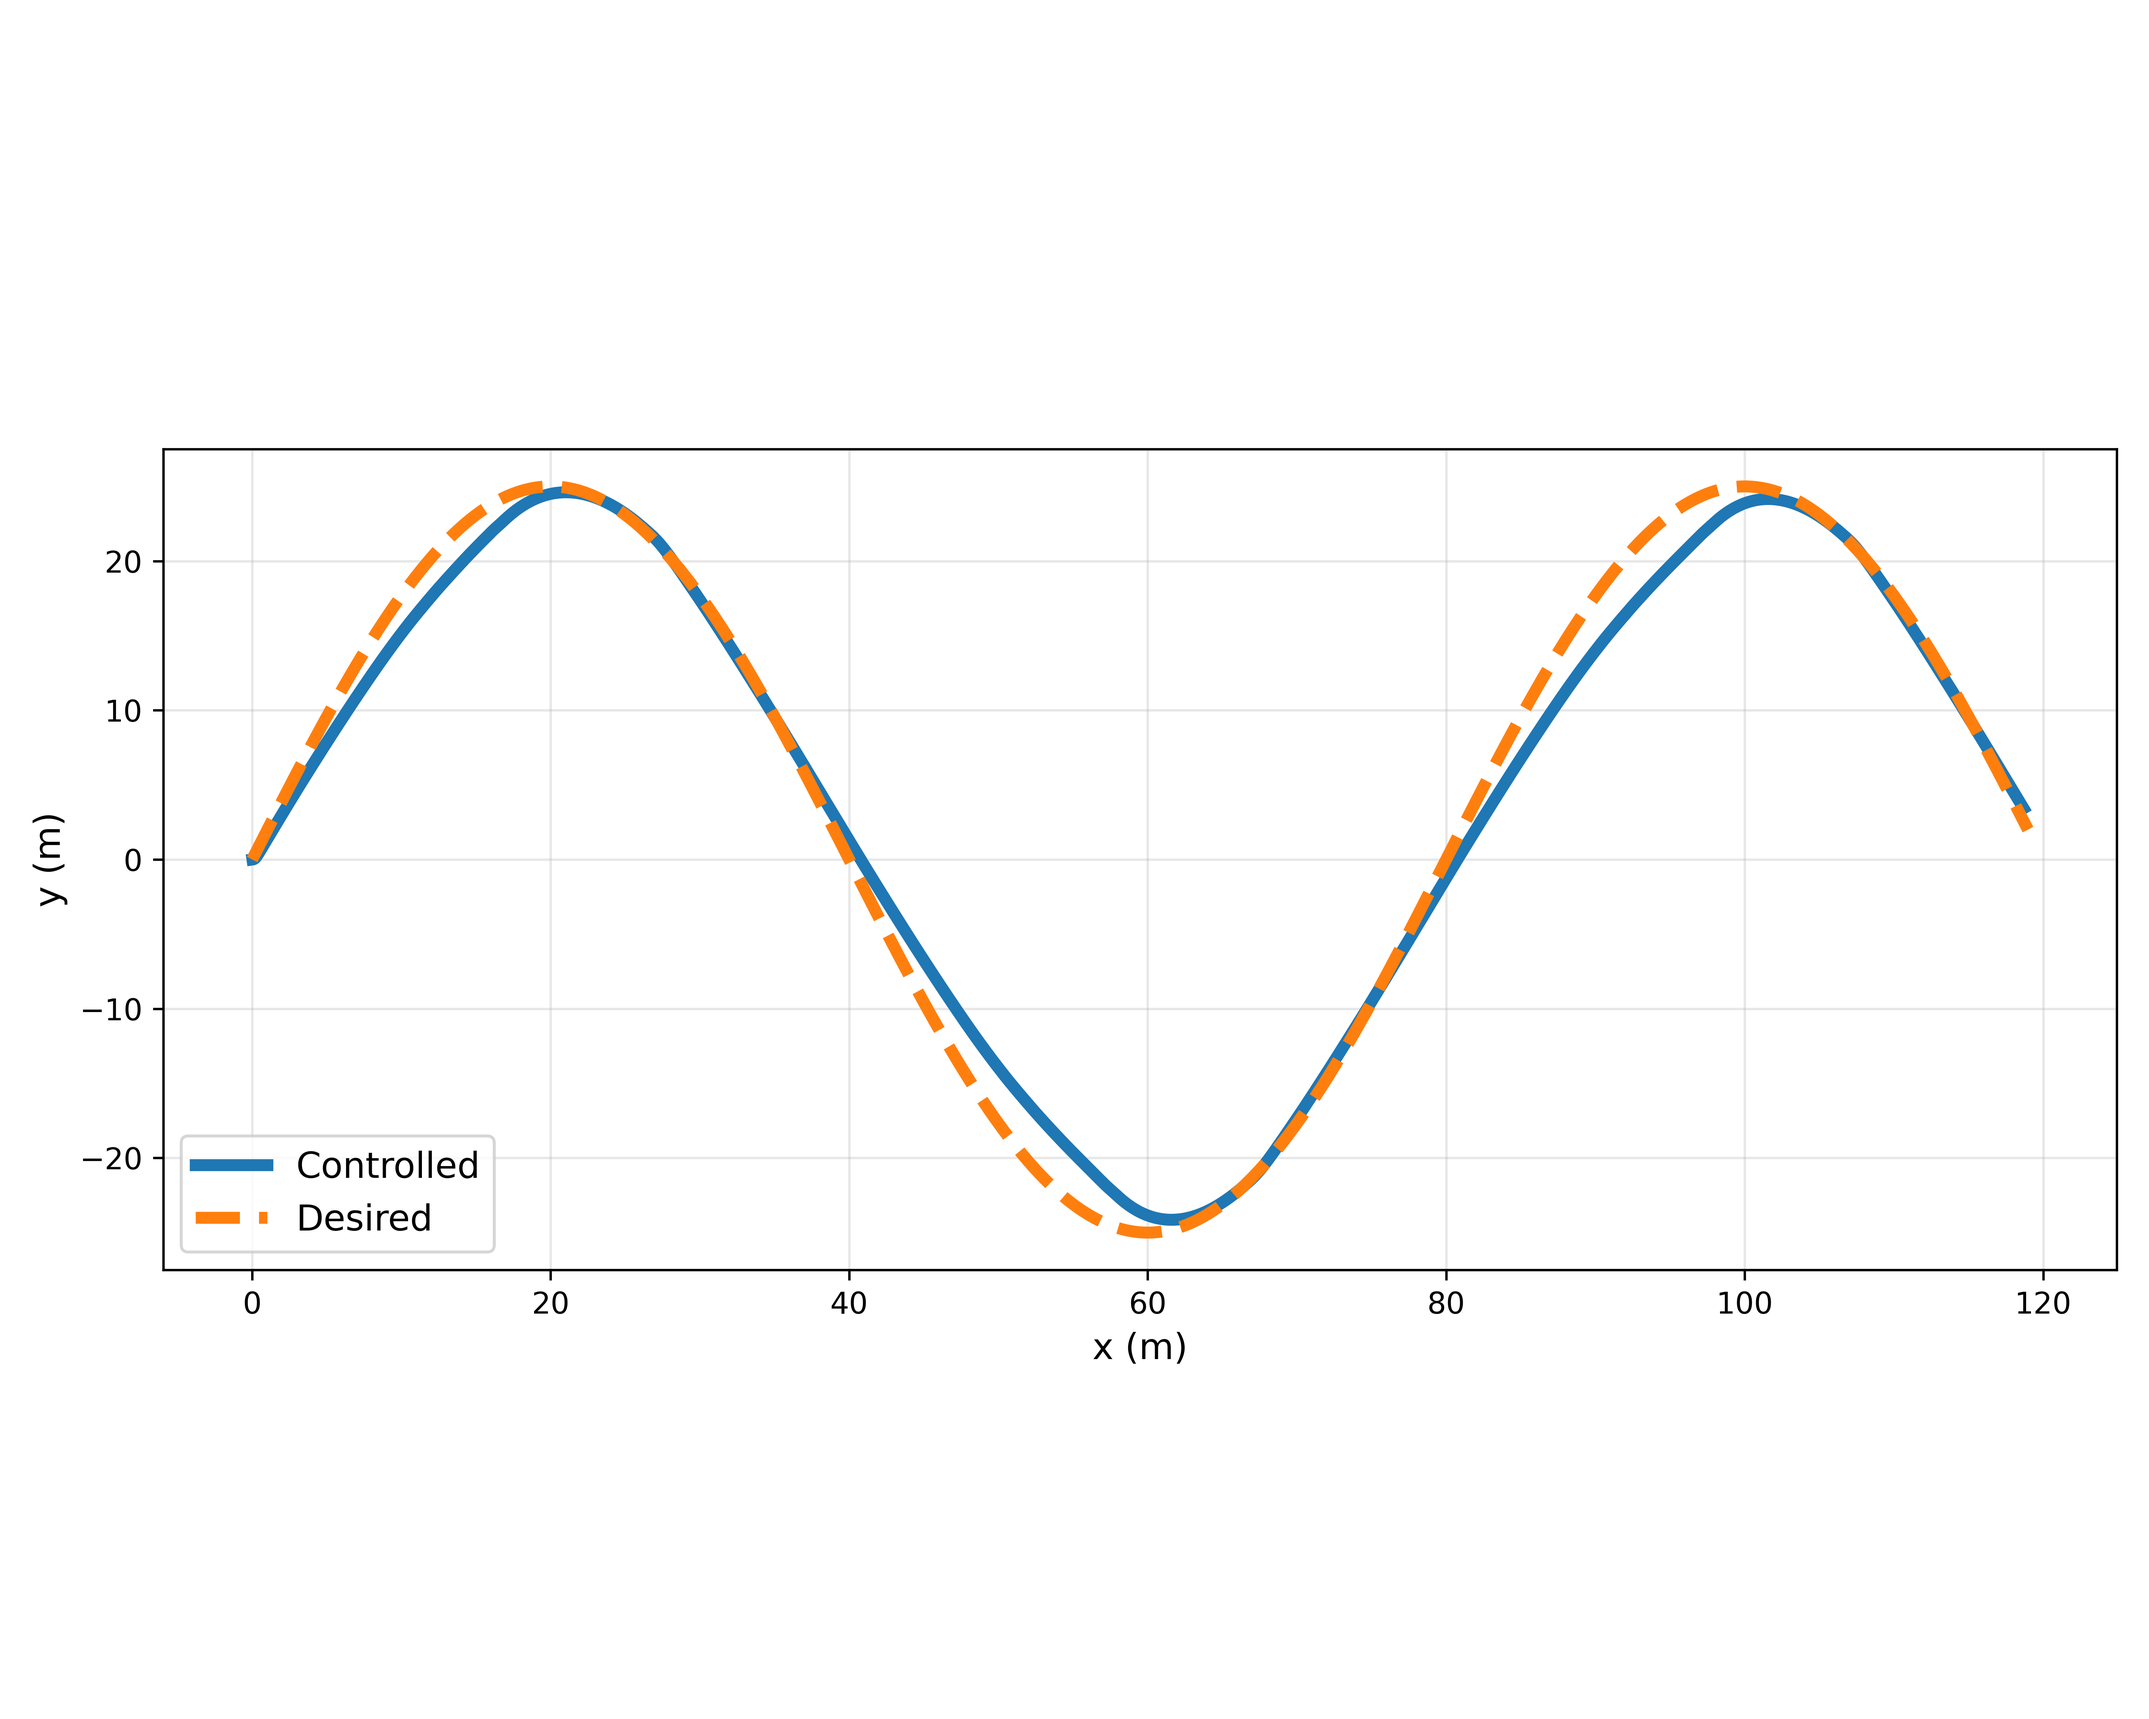
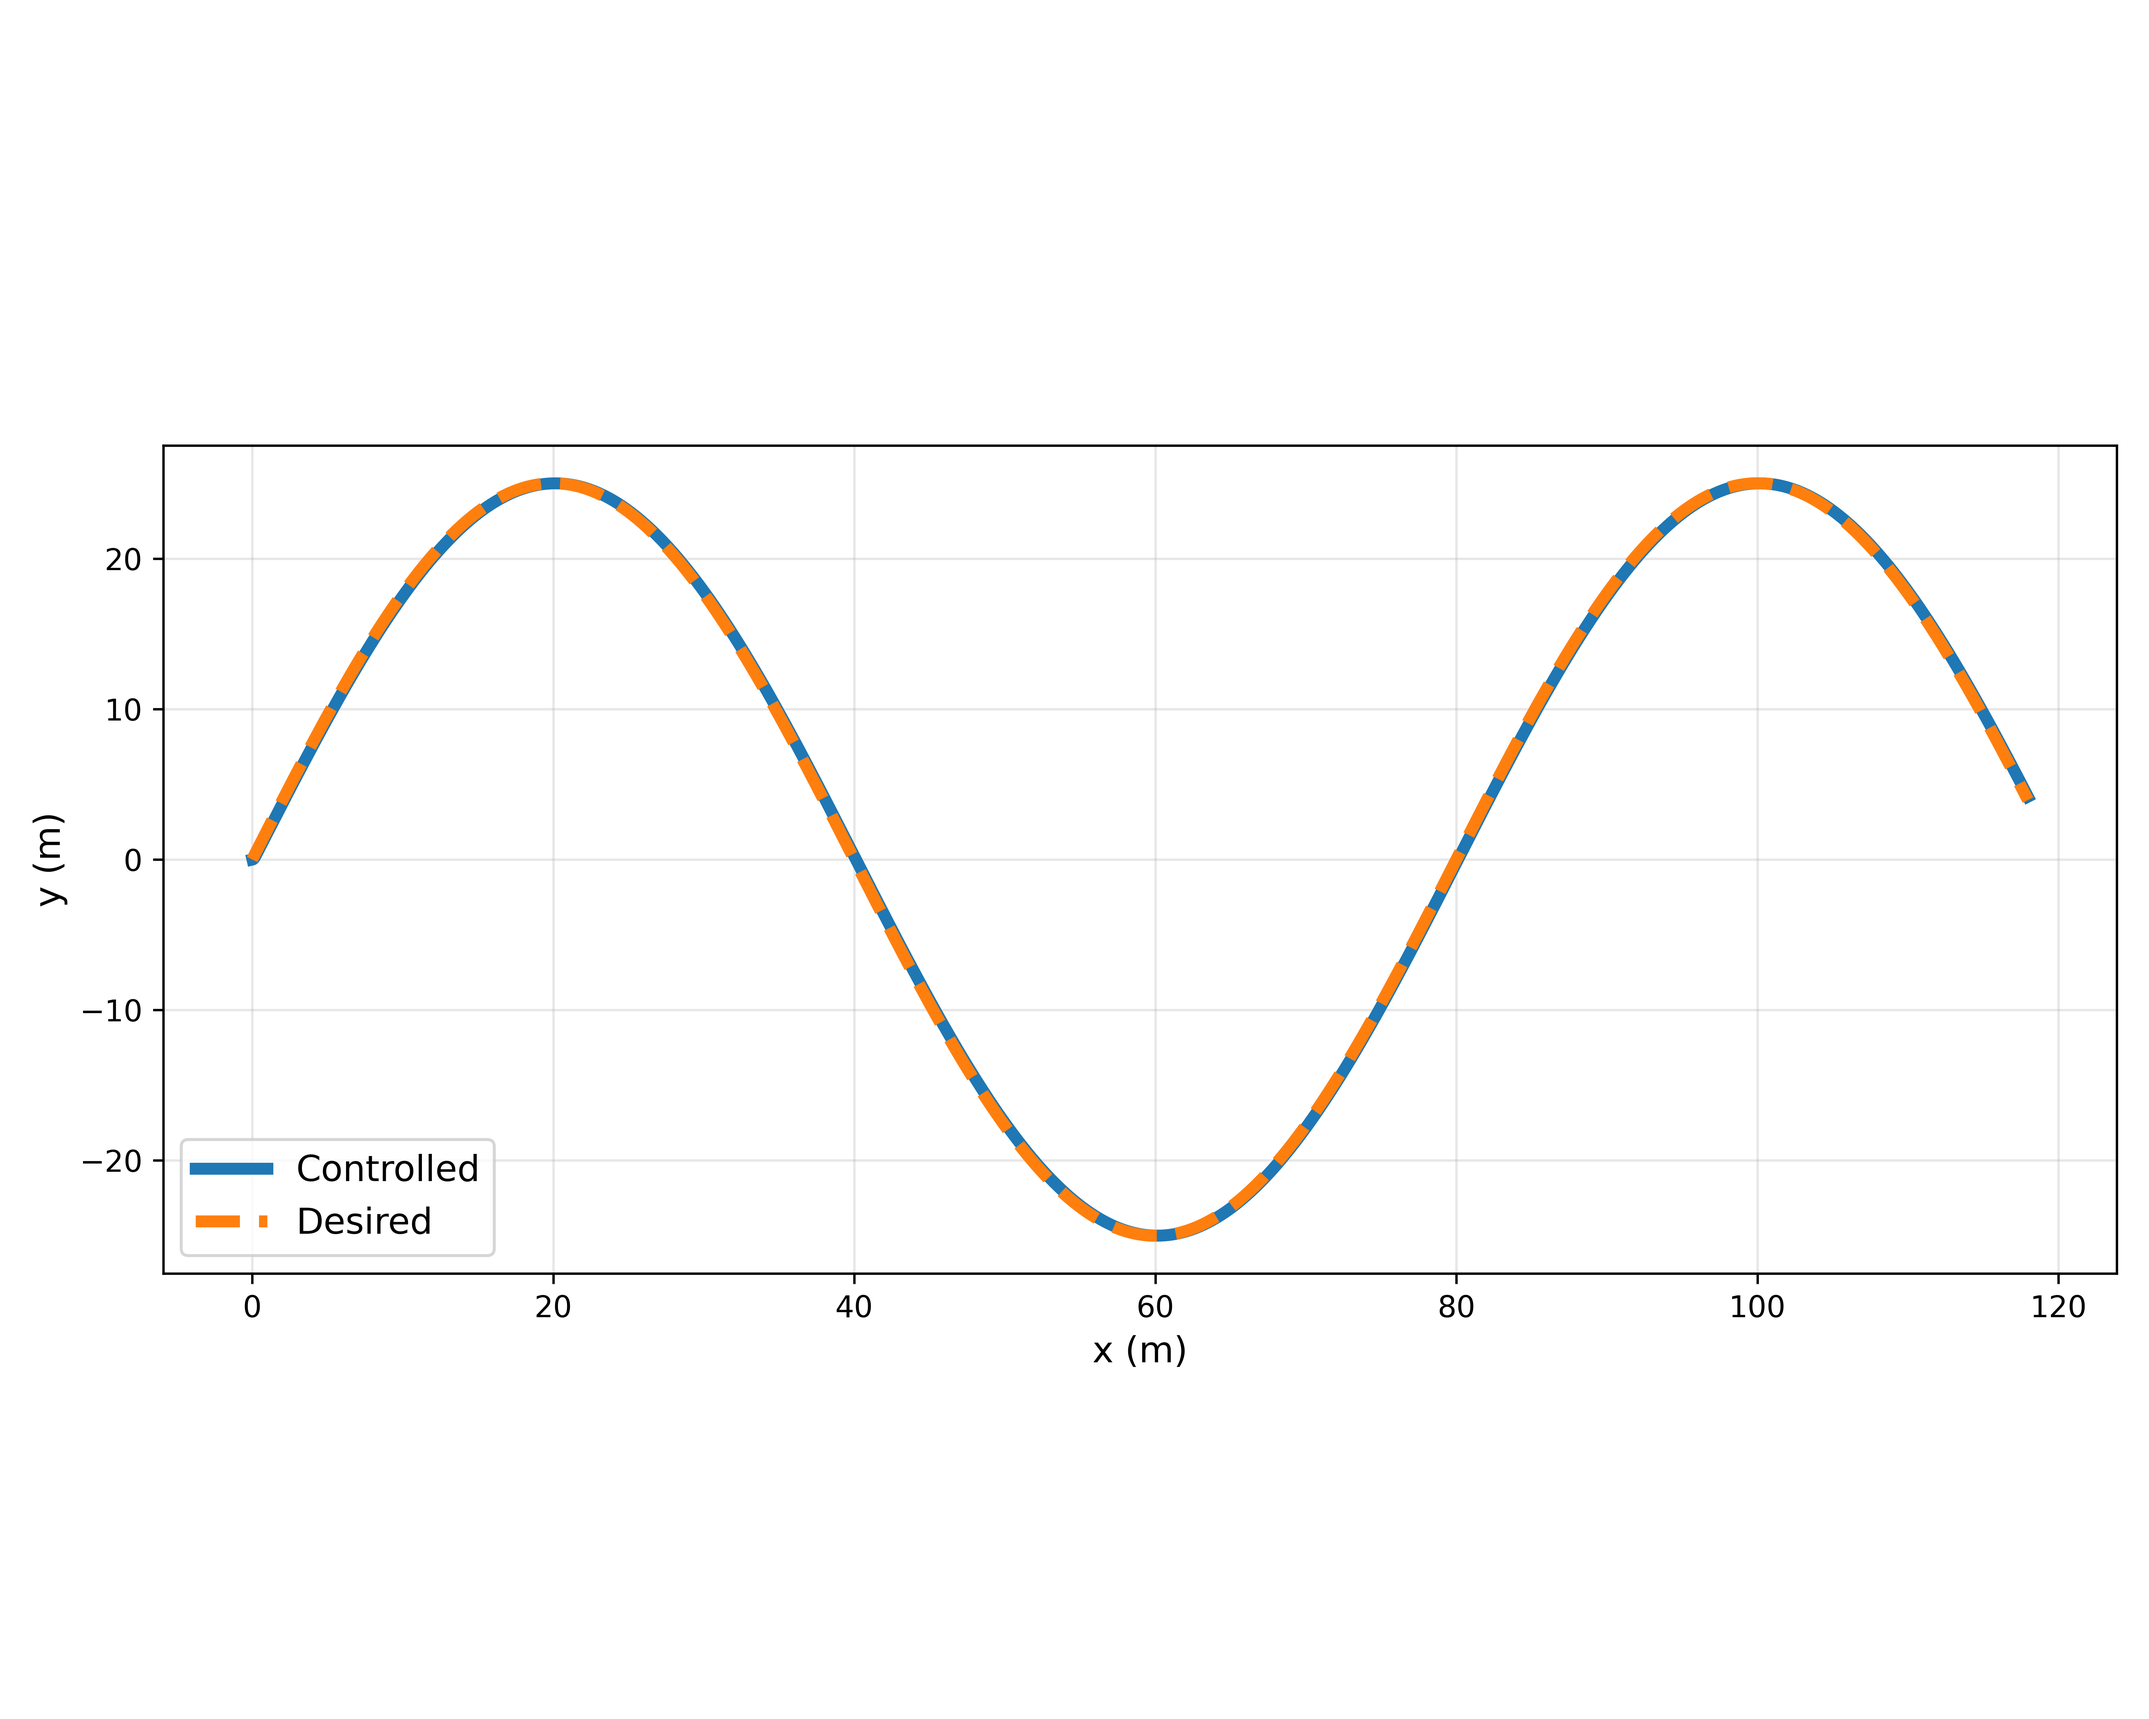
Further testing

diff --git a/MPC/MPC_Analysis.py b/MPC/MPC_Analysis.py
@@ -47,9 +47,9 @@ plot_heatmap(ctrl_cost_grid, v_unique, f_unique,   "Control Effort", cmap="plasm
 # --- CONTROLS AND TRAJECTORY ---
 # Select trajectories:
 selected_runs = [
-    (50, 50),
-    (80, 50),
-    (100, 50),
+    (10, 10),
+    (40, 40),
+    (70, 70),
 ]
 
 # Define colors for trajectories:
@@ -80,14 +80,14 @@ axes_states = axes_states.flatten()
 state_labels = ["$p_x$ (m)", "$p_y$ (m)", "$v_x$ (m/s)", "$v_y$ (m/s)"]
 
 # Generate reference trajectory for plotting (sinusoidal):
-amplitude = 30.0
+amplitude = 25.0
 omega = 2 * np.pi / 40.0
 t_ref = np.linspace(0, time, len(t))
 ref_trajectory = np.zeros((len(t), 4))
 for i in range(len(t)):
-    ref_trajectory[i, 0] = 4 * t_ref[i]  # px = 4*t
+    ref_trajectory[i, 0] = 2 * t_ref[i]  # px = 4*t
     ref_trajectory[i, 1] = amplitude * np.sin(omega * t_ref[i])  # py = A*sin(ωt)
-    ref_trajectory[i, 2] = 4  # vx = 4
+    ref_trajectory[i, 2] = 2  # vx = 4
     ref_trajectory[i, 3] = amplitude * omega * np.cos(omega * t_ref[i])  # vy = A*ω*cos(ωt)
 
 # Plot:
@@ -124,10 +124,10 @@ for (f, v, data), color in zip(runs, colors):
     axes_ctrl[1].plot(t_ctrl, u[:, 1], color=color, linewidth=2)
 
 # Control limits:
-axes_ctrl[0].axhline(20, color="black", linestyle="--", linewidth=1.5, label="Limit")
-axes_ctrl[0].axhline(-20, color="black", linestyle="--", linewidth=1.5)
-axes_ctrl[1].axhline(20, color="black", linestyle="--", linewidth=1.5)
-axes_ctrl[1].axhline(-20, color="black", linestyle="--", linewidth=1.5)
+axes_ctrl[0].axhline(50, color="black", linestyle="--", linewidth=1.5, label="Limit")
+axes_ctrl[0].axhline(-50, color="black", linestyle="--", linewidth=1.5)
+axes_ctrl[1].axhline(50, color="black", linestyle="--", linewidth=1.5)
+axes_ctrl[1].axhline(-50, color="black", linestyle="--", linewidth=1.5)
 
 # Set labels:
 axes_ctrl[0].set_ylabel("$u_x$ (m/s²)")

diff --git a/MPC/NL_Drag_Script.py b/MPC/NL_Drag_Script.py
@@ -54,14 +54,14 @@ n_tsteps = int(t_end / dt)
 time_vec = np.linspace(0, t_end, n_tsteps)
 
 # MPC Sweep parameters:
-f_list = [10, 20]
-v_list = [10, 20]
+f_list = [10, 20, 30, 40, 50, 60, 70]
+v_list = [10, 20, 30, 40, 50, 60, 70]
 
 # Problem parameters:
 c = 2.0
-x0 = np.array([0, 0, 4, 0])
-u_max = np.array([20, 20])
-u_min = np.array([-20, -20])
+x0 = np.array([0, 0, 2, 0])
+u_max = np.array([50, 50])
+u_min = np.array([-50, -50])
 cts_lin = True
 
 # Weight scalers:
@@ -73,20 +73,20 @@ Q0 = 0.00001 * np.eye(2) * Q0_scaler
 Q = 0.0001 * np.eye(2) * Q_scaler
 
 P = np.zeros((4, 4))
-P[0, 0] = 100  # px
+P[0, 0] = 1000  # px
 P[1, 1] = 1000  # py
-P[2, 2] = 100  # vx
+P[2, 2] = 1000  # vx
 P[3, 3] = 1000  # vy
 
 # Desired trajectory - Sinusoidal:
-amplitude = 30.0
+amplitude = 25.0
 omega = 2 * np.pi / 40.0
 traj = np.zeros((n_tsteps, 4))
 for i in range(n_tsteps):
     t = dt * i
-    traj[i, 0] = 4 * t
+    traj[i, 0] = x0[2] * t
     traj[i, 1] = amplitude * np.sin(omega * t)
-    traj[i, 2] = 4
+    traj[i, 2] = x0[2]
     traj[i, 3] = amplitude * omega * np.cos(omega * t)
 
 # Dimensions:

diff --git a/MPC/NL_Drag.py b/MPC/NL_Drag.py
@@ -86,7 +86,7 @@ def nonlinear_step(x, u, dt, c):
     return x + dt * dx
 
 # Define MPC parameters:
-f = 50
+f = 100
 v = 20
 
 # Simulation parameters:
@@ -109,11 +109,11 @@ Q0_scaler = 1e2
 Q_scaler = 1e3
 
 # Define control bounds:
-u_max = np.array([20, 20]).T
-u_min = np.array([-20, -20]).T
+u_max = np.array([50, 50]).T
+u_min = np.array([-50, -50]).T
 
 # Define if you want to linearize every step or only at IC:
-cts_lin = True
+cts_lin = False
 
 ####################################################################
 
@@ -128,10 +128,10 @@ Q *= Q_scaler
 
 # Penalize error in objective:
 P = np.zeros((4, 4))
-P[0, 0] = 100   # px
-P[1, 1] = 100   # py
-P[2, 2] = 100   # vx
-P[3, 3] = 100    # vy
+P[0, 0] = 10000   # px
+P[1, 1] = 10000   # py
+P[2, 2] = 10000   # vx
+P[3, 3] = 10000    # vy
 
 # --- Develop MPC problem ---
 # Fetch dimensions:
